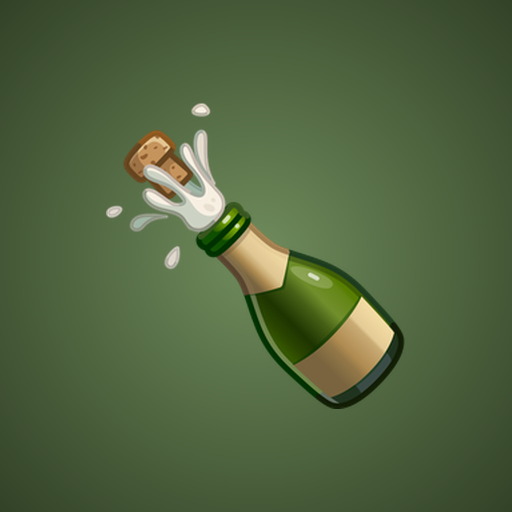
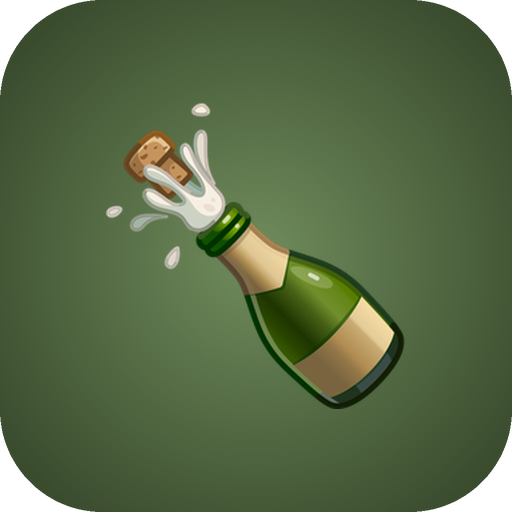
Packs: next pack requested while the current one plays, market lots warmed in the background, better prize odds; gift pictures get rounded corners and fall back to the bundled picture

diff --git a/templates/index.html b/templates/index.html
@@ -57,5 +57,5 @@
     <div class="sv3-brand">Crafter</div>
     <div class="sv3-status"><span>Загрузка</span><div class="splash-progress" role="progressbar" aria-label="Загрузка Crafter" aria-valuemin="0" aria-valuemax="100" aria-valuenow="0"><span class="splash-progress-fill"></span></div></div>
   </div>
-</div><script>(function(){var s=document.getElementById("splash"),v=1+Math.floor(Math.random()*5);s.dataset.v=v;s.querySelector(".sv3-pepe").src="/static/assets/splash/pepe-"+v+".webp";})();</script><div id="app"><header><span class="winter-currency-balance" role="status" aria-label="Новогодние шары: 0, пока недоступны" title="Новогодние шары — скоро"><img src="/static/assets/crafter-winter-ornament.png" alt="" width="32" height="32" draggable="false"><b>0</b></span><button type="button" class="games-profile-settings" onclick="crafterOpenSettings()" aria-label="Настройки">⚙</button><button class="brand" onclick="go('market')"><span class="crafter-mark">⌁</span><span>Crafter</span></button><div class="craft-header"><button class="info-btn" onclick="craftRules()" aria-label="Как работает крафт">i</button></div><button type="button" class="staking-rules-button" onclick="stakingRules()" aria-label="Правила стейкинга"><span class="staking-rules-dot" aria-hidden="true">i</span> Правила</button><button class="balance" onclick="go('wallet')"><img class="gram-icon" src="/static/assets/gram.svg" alt=""> <b>0 GRAM</b></button></header><main id="main"></main><nav id="nav"></nav></div><dialog id="sheet"><div class="sheet-head"><h2 id="sheet-title"></h2><button class="close" onclick="closeSheet()" aria-label="Закрыть"><svg viewBox="0 0 24 24" width="19" height="19" fill="none" stroke="currentColor" stroke-width="2" stroke-linecap="round" aria-hidden="true"><path d="M5 5 19 19M19 5 5 19"/></svg></button></div><div id="sheet-body"></div></dialog>{% include 'collection.html' %}<div id="toast" role="status"></div><script>setTimeout(function(){var s=document.getElementById("splash");if(s&&!s.classList.contains("finished")){s.classList.add("finished");var m=document.getElementById("main");if(!m.children.length)m.innerHTML="<div class=empty><h2>Не удалось загрузить приложение</h2><p>Проверьте соединение и попробуйте ещё раз.</p><button class=secondary onclick=location.reload()>Повторить</button></div>";}},18000);</script><script src="/static/app.js?v=deeplink1r2"></script><script src="/static/cube.js"></script><script src="/static/screens.js?v=res4"></script><script src="/static/catalog-ui.js?v=gram4b"></script><script src="/static/cart.js?v=reset2"></script><script src="/static/gift-animation.js?v=avoid-fragment-storm-20261105"></script><script src="/static/forge.js?v=craft-result-balls-20261108-v3"></script><script src="/static/wallet.js?v=deposit-simplified-20261107-v1"></script><script src="/static/auto-payout-admin.js?v=payout-wizard-v2-20261106"></script><script src="/static/runtime.js?v=market-scroll-optimized-20261105"></script><script src="/static/bot-admin.js?v=ph1"></script><script src="/static/collection.js?v=pack-page3r"></script><script src="/static/market-tools.js?v=withdraw-ui-v1"></script><script src="/static/gift-transfer.js?v=telegram-plane-nov04"></script><script src="/static/banner-carousel.js?v=market-features-v1"></script><script src="/static/market-banners.js?v=final-crafter-nov05-v10"></script><script src="/static/inventory-filters.js?v=isolated-model-20261104"></script><script src="/static/preferences.js?v=inv3"></script><script src="/static/staking.js?v=arena2"></script><script src="/static/crafter-lottie.js?v=event-arena-updates-20261105-v6"></script><script src="/static/leaderboard-designer.js?v=thrones-desktop-20261106-v2"></script><script src="/static/event-page-view.js?v=rank-studio-20261106-v1"></script><script src="/static/events.js?v=unified-season-v1-20261106"></script><script src="/static/resale.js?v=thermos4"></script><script src="/static/market-features.js?v=collection-preview-pack3"></script><script src="/static/offers.js?v=withdraw-ui-v2"></script><script src="/static/gift-share.js?v=withdraw-ui-v1"></script><script src="/static/arena-banner.js?v=timer-v3-20261106"></script><script src="/static/arena.js?v=glide-aim-20261111"></script><script src="/static/arena-private.js?v=room-switch-bottom-rounded-v1"></script><script src="/static/announcements.js?v=instant-close-20261108-v1"></script><script src="/static/new-year-page.js?v=nyp3"></script><script src="/static/new-year-decor.js?v=garland4"></script><script src="/static/web-login.js?v=launch1"></script><script src="/static/loading.js?v=live-progress-20261108-v1"></script><script src="/static/desktop-nav.js?v=desktop-sidebar-20261108-v1"></script><script src="/static/site-snow.js?v=snow2"></script><script src="/static/site-maintenance.js?v=launch-flip3"></script><script src="/static/advent.js?v=open2"></script><script src="/static/shop-items.js?v=bundle3"></script><script src="/static/ny-locks-admin.js?v=2"></script><script src="/static/packs.js?v=many1"></script><script src="/static/community-events.js?v=cm12"></script><script src="/static/new-year.js?v=ny-hub1"></script><script src="/static/new-year-rewards.js?v=preview-rewards-20261108-v2"></script><script src="/static/upgrade.js?v=gram5"></script><script src="/static/promo-profile.js?v=many1"></script><script src="/static/star-gifts.js?v=sg9"></script><script src="/static/ui-fixes.js?v=ui1"></script><script src="/static/admin-hide.js?v=2"></script><script src="/static/router.js?v=3"></script></body></html>
+</div><script>(function(){var s=document.getElementById("splash"),v=1+Math.floor(Math.random()*5);s.dataset.v=v;s.querySelector(".sv3-pepe").src="/static/assets/splash/pepe-"+v+".webp";})();</script><div id="app"><header><span class="winter-currency-balance" role="status" aria-label="Новогодние шары: 0, пока недоступны" title="Новогодние шары — скоро"><img src="/static/assets/crafter-winter-ornament.png" alt="" width="32" height="32" draggable="false"><b>0</b></span><button type="button" class="games-profile-settings" onclick="crafterOpenSettings()" aria-label="Настройки">⚙</button><button class="brand" onclick="go('market')"><span class="crafter-mark">⌁</span><span>Crafter</span></button><div class="craft-header"><button class="info-btn" onclick="craftRules()" aria-label="Как работает крафт">i</button></div><button type="button" class="staking-rules-button" onclick="stakingRules()" aria-label="Правила стейкинга"><span class="staking-rules-dot" aria-hidden="true">i</span> Правила</button><button class="balance" onclick="go('wallet')"><img class="gram-icon" src="/static/assets/gram.svg" alt=""> <b>0 GRAM</b></button></header><main id="main"></main><nav id="nav"></nav></div><dialog id="sheet"><div class="sheet-head"><h2 id="sheet-title"></h2><button class="close" onclick="closeSheet()" aria-label="Закрыть"><svg viewBox="0 0 24 24" width="19" height="19" fill="none" stroke="currentColor" stroke-width="2" stroke-linecap="round" aria-hidden="true"><path d="M5 5 19 19M19 5 5 19"/></svg></button></div><div id="sheet-body"></div></dialog>{% include 'collection.html' %}<div id="toast" role="status"></div><script>setTimeout(function(){var s=document.getElementById("splash");if(s&&!s.classList.contains("finished")){s.classList.add("finished");var m=document.getElementById("main");if(!m.children.length)m.innerHTML="<div class=empty><h2>Не удалось загрузить приложение</h2><p>Проверьте соединение и попробуйте ещё раз.</p><button class=secondary onclick=location.reload()>Повторить</button></div>";}},18000);</script><script src="/static/app.js?v=deeplink1r2"></script><script src="/static/cube.js"></script><script src="/static/screens.js?v=res4"></script><script src="/static/catalog-ui.js?v=gram4b"></script><script src="/static/cart.js?v=reset2"></script><script src="/static/gift-animation.js?v=avoid-fragment-storm-20261105"></script><script src="/static/forge.js?v=craft-result-balls-20261108-v3"></script><script src="/static/wallet.js?v=deposit-simplified-20261107-v1"></script><script src="/static/auto-payout-admin.js?v=payout-wizard-v2-20261106"></script><script src="/static/runtime.js?v=market-scroll-optimized-20261105"></script><script src="/static/bot-admin.js?v=ph1"></script><script src="/static/collection.js?v=pack-page3r"></script><script src="/static/market-tools.js?v=withdraw-ui-v1"></script><script src="/static/gift-transfer.js?v=telegram-plane-nov04"></script><script src="/static/banner-carousel.js?v=market-features-v1"></script><script src="/static/market-banners.js?v=final-crafter-nov05-v10"></script><script src="/static/inventory-filters.js?v=isolated-model-20261104"></script><script src="/static/preferences.js?v=inv3"></script><script src="/static/staking.js?v=arena2"></script><script src="/static/crafter-lottie.js?v=event-arena-updates-20261105-v6"></script><script src="/static/leaderboard-designer.js?v=thrones-desktop-20261106-v2"></script><script src="/static/event-page-view.js?v=rank-studio-20261106-v1"></script><script src="/static/events.js?v=unified-season-v1-20261106"></script><script src="/static/resale.js?v=thermos4"></script><script src="/static/market-features.js?v=collection-preview-pack3"></script><script src="/static/offers.js?v=withdraw-ui-v2"></script><script src="/static/gift-share.js?v=withdraw-ui-v1"></script><script src="/static/arena-banner.js?v=timer-v3-20261106"></script><script src="/static/arena.js?v=glide-aim-20261111"></script><script src="/static/arena-private.js?v=room-switch-bottom-rounded-v1"></script><script src="/static/announcements.js?v=instant-close-20261108-v1"></script><script src="/static/new-year-page.js?v=nyp3"></script><script src="/static/new-year-decor.js?v=garland4"></script><script src="/static/web-login.js?v=launch1"></script><script src="/static/loading.js?v=live-progress-20261108-v1"></script><script src="/static/desktop-nav.js?v=desktop-sidebar-20261108-v1"></script><script src="/static/site-snow.js?v=snow2"></script><script src="/static/site-maintenance.js?v=launch-flip3"></script><script src="/static/advent.js?v=open2"></script><script src="/static/shop-items.js?v=bundle3"></script><script src="/static/ny-locks-admin.js?v=2"></script><script src="/static/packs.js?v=many2"></script><script src="/static/community-events.js?v=cm12"></script><script src="/static/new-year.js?v=ny-hub1"></script><script src="/static/new-year-rewards.js?v=preview-rewards-20261108-v2"></script><script src="/static/upgrade.js?v=gram5"></script><script src="/static/promo-profile.js?v=many1"></script><script src="/static/star-gifts.js?v=sg9"></script><script src="/static/ui-fixes.js?v=ui1"></script><script src="/static/admin-hide.js?v=2"></script><script src="/static/router.js?v=3"></script></body></html>
 

diff --git a/static/packs.js b/static/packs.js
@@ -105,8 +105,10 @@ async function packInfo(upid) {
 async function openMany(ids, refresh) {
     if (ids.length < 2) { await open(ids[0], refresh); return; }
     const batch = {skip: false, results: []};
+    const ahead = {};                                             // the next pack is requested while this one plays: no waiting between packs
     for (let i = 0; i < ids.length && !batch.skip; i++) {
-        await open(ids[i], null, {index: i + 1, total: ids.length, batch});
+        if (i + 1 < ids.length) { ahead[i + 1] = api('packs/open', {user_pack_id: ids[i + 1]}); ahead[i + 1].catch(() => {}); }
+        await open(ids[i], null, {index: i + 1, total: ids.length, batch, pre: ahead[i]});
         if (batch.skip) {                                         // held for 5 seconds: everything that is left opens at once, in ONE request
             const left = ids.slice(i + 1);
             if (left.length) {
@@ -230,7 +232,7 @@ async function open(upid, refresh, meta) {
     if (playing) return;
     playing = true;
     let res;
-    try { res = await api('packs/open', {user_pack_id: upid}); }
+    try { res = await ((meta && meta.pre) || api('packs/open', {user_pack_id: upid})); }
     catch (err) { playing = false; toast(err.message); return; }
     const cards = res.cards || [];
     if (meta && meta.batch) meta.batch.results.push(res);

diff --git a/tests/test_packs.py b/tests/test_packs.py
@@ -295,8 +295,8 @@ def test_snowman_pack_economy_and_contents(client):
     mean_cards = sum(k * v for k, v in cards.items()) / sum(cards.values())
     ev_card = sum(float(D(p['value'] if p['kind'] == 'NFT' else p['amount'])) * p['weight'] for p in snow['prizes']) / total
     gift_share = sum(p['weight'] for p in gifts) / total
-    assert 0.08 <= ev_card * mean_cards <= 0.3                                             # an opening is worth well under half a GRAM
-    assert 0.15 <= 100 * mean_cards * gift_share <= 0.45                                   # about one gift per 400 openings
+    assert 0.08 <= ev_card * mean_cards <= 0.55                                            # an opening is worth well under half a GRAM
+    assert 0.8 <= 100 * mean_cards * gift_share <= 2.2                                     # about one gift per 70 openings
     grams = {p['amount'] for p in snow['prizes'] if p['kind'] == 'GRAM'}
     assert {'0.1', '0.2', '0.5', '1', '2', '3', '5', '10'} <= grams
     info = client.get('/api/packs/snowman/contents', headers=player).json
@@ -331,7 +331,7 @@ def test_winter_pack_is_rare_cheap_and_listed_lots_know_their_pack(client):
     total = sum(p['weight'] for p in winter['prizes'])
     cards = {int(k): v for k, v in winter['card_weights'].items()}
     mean = sum(k * v for k, v in cards.items()) / sum(cards.values())
-    assert 0.15 <= 100 * mean * sum(p['weight'] for p in gifts) / total <= 0.45             # about one gift per 400 openings
+    assert 0.8 <= 100 * mean * sum(p['weight'] for p in gifts) / total <= 2.2               # about one gift per 70 openings
     assert len([p for p in winter['prizes'] if p['kind'] == 'GRAM']) >= 10                  # lots of balance prizes
     assert 'pack_id' in __import__('inspect').getsource(__import__('resale'))
 
@@ -419,7 +419,7 @@ def test_existing_packs_are_given_backdrops_of_their_own_set(client):
 
 def test_christmas_carol_pack_and_one_stingy_table(client):
     admin, player = signed(42), signed(43)
-    STANDARD = {'0.1': 840.0, '0.2': 100.0, '0.3': 35.0, '0.5': 14.0, '0.75': 6.0, '1': 3.0, '1.5': 1.2, '2': .5, '3': .2, '5': .08, '10': .02, '20': .006}
+    STANDARD = {'0.1': 620.0, '0.2': 170.0, '0.3': 80.0, '0.5': 55.0, '0.75': 30.0, '1': 24.0, '1.5': 11.0, '2': 5.5, '3': 2.5, '5': 1.0, '10': .35, '20': .12}
     client.get('/api/me', headers=player)
     all_packs = {p['id']: p for p in client.get('/api/admin/new-year/packs', headers=admin).json['packs']}
     xmas = all_packs['christmas']
@@ -429,12 +429,12 @@ def test_christmas_carol_pack_and_one_stingy_table(client):
         ('snowglobe', 'Crimson Cabin'), ('hangingstar', 'Christmas'), ('snowmittens', 'Rudolph'), ('gingercookie', 'Cookie Claus'), ('jinglebells', 'Nutcracker'),
         ('eternalcandle', 'Red Melter'), ('xmasstocking', 'Caramel Fest'), ('winterwreath', 'Holly Leaves'), ('spicedwine', 'Gluhwein'), ('candycane', 'Cherry Charm')]
     for pack in all_packs.values():                                              # the same balance table and card counts everywhere
-        assert {int(k): v for k, v in pack['card_weights'].items()} == {1: 60, 2: 24, 3: 10, 4: 4, 5: 1.5, 6: .5}
+        assert {int(k): v for k, v in pack['card_weights'].items()} == {1: 52, 2: 26, 3: 13, 4: 6, 5: 2, 6: 1}
         table = {p['amount']: p['weight'] for p in pack['prizes'] if p['kind'] == 'GRAM' and p['amount'] in STANDARD}
         assert table == {k: float(v) for k, v in STANDARD.items() if k in table} and '0.1' in table
     for pack in all_packs.values():
         total = sum(p['weight'] for p in pack['prizes'])
-        assert sum(p['weight'] for p in pack['prizes'] if p['kind'] == 'NFT') / total < 0.0025          # a gift per card: at most 0.25%
+        assert sum(p['weight'] for p in pack['prizes'] if p['kind'] == 'NFT') / total < 0.01          # a gift per card: at most 1%
 
 
 def test_packs_are_a_collection_called_lucky_pack_with_a_floor(client):
@@ -468,7 +468,7 @@ def test_packs_hold_one_card_in_60_percent_of_openings_and_carry_an_accent(clien
     client.get('/api/me', headers=player)
     for pack in client.get('/api/admin/new-year/packs', headers=admin).json['packs']:
         weights = {int(k): v for k, v in pack['card_weights'].items()}
-        assert abs(weights[1] / sum(weights.values()) - .6) < 1e-9 and max(weights) == 6
+        assert abs(weights[1] / sum(weights.values()) - .52) < 1e-9 and max(weights) == 6
     client.post('/api/admin/users/43/packs', headers=admin, json={'pack_id': 'christmas'})
     pack, = [g for g in client.get('/api/inventory', headers=player).json['gifts'] if g.get('pack_item')]
     opened = client.post('/api/packs/open', headers=player, json={'user_pack_id': pack['user_pack_id']})
@@ -529,9 +529,9 @@ def test_silverfrost_pack(client):
                      ('santahat', 'Below Zero', '8.2'), ('snowglobe', 'Diamond', '8.37'), ('snowmittens', 'Pingu', '9.77'), ('jinglebells', 'Glacier', '11.33')] or         [g[:2] for g in gifts] == [('xmasstocking', 'Frozen Moss'), ('candycane', 'Blue Bliss'), ('partysparkler', 'Cyan Sizzle'), ('gingercookie', 'Frozen Dough'),
                                   ('winterwreath', 'Negative'), ('eternalcandle', 'Blue Steel'), ('santahat', 'Below Zero'), ('snowglobe', 'Diamond'),
                                   ('snowmittens', 'Pingu'), ('jinglebells', 'Glacier')]
-    assert {int(k): v for k, v in pack['card_weights'].items()} == {1: 60, 2: 24, 3: 10, 4: 4, 5: 1.5, 6: .5}
+    assert {int(k): v for k, v in pack['card_weights'].items()} == {1: 52, 2: 26, 3: 13, 4: 6, 5: 2, 6: 1}
     total = sum(p['weight'] for p in pack['prizes'])
-    assert abs(sum(p['weight'] for p in pack['prizes'] if p['kind'] == 'NFT') / total - 0.0017) < 0.0001
+    assert abs(sum(p['weight'] for p in pack['prizes'] if p['kind'] == 'NFT') / total - 0.008) < 0.0005
     assert packs.PACK_ACCENTS['silverfrost']
 
 

diff --git a/packs.py b/packs.py
@@ -4,6 +4,7 @@ Packs are configured by administrators (card-count chances and prize chances), c
 community rewards, promo-code rewards or sold for New Year balls, and are opened with one request.
 Gift prizes are catalog items: they can be sold back instantly for their value but never withdrawn.
 """
+import threading
 import gzip
 import json
 import re
@@ -530,6 +531,32 @@ def install_packs(app, db, auth, record, audit):
                 db().execute("UPDATE packs SET card_weights=? WHERE id=?", (json.dumps(CARD_WEIGHTS), pack_id))
             db().execute("INSERT INTO settings(key,payload) VALUES('packs_tuned_v6','1') ON CONFLICT(key) DO NOTHING")
 
+    BETTER_GRAM = (('0.1', 620), ('0.2', 170), ('0.3', 80), ('0.5', 55), ('0.75', 30), ('1', 24), ('1.5', 11), ('2', 5.5), ('3', 2.5), ('5', 1), ('10', .35), ('20', .12))
+    BETTER_CARDS = {'1': 52, '2': 26, '3': 13, '4': 6, '5': 2, '6': 1}
+    BETTER_NFT_SHARE = 0.008
+
+    def tune_packs_better():
+        """Once: a little better prizes. Fewer 0.1 GRAM cards, more mid-size balance prizes, more cards per pack, gifts about five times as likely."""
+        if db().execute("SELECT 1 FROM settings WHERE key='packs_tuned_v7'").fetchone():
+            return
+        table = dict(BETTER_GRAM)
+        with db():
+            for pack in db().execute("SELECT id FROM packs").fetchall():
+                db().execute("UPDATE packs SET card_weights=? WHERE id=?", (json.dumps(BETTER_CARDS), pack['id']))
+                for r in db().execute("SELECT * FROM pack_prizes WHERE pack_id=? AND kind='GRAM'", (pack['id'],)).fetchall():
+                    key = str(r['amount'])
+                    if key in table:
+                        db().execute("UPDATE pack_prizes SET weight=? WHERE id=?", (table[key], r['id']))
+                rows = db().execute("SELECT * FROM pack_prizes WHERE pack_id=?", (pack['id'],)).fetchall()
+                gram = sum(float(r['weight']) for r in rows if r['kind'] == 'GRAM')
+                nft = sum(float(r['weight']) for r in rows if r['kind'] == 'NFT')
+                if gram > 0 and nft > 0:
+                    wanted = BETTER_NFT_SHARE / (1 - BETTER_NFT_SHARE) * gram
+                    for r in rows:
+                        if r['kind'] == 'NFT':
+                            db().execute("UPDATE pack_prizes SET weight=? WHERE id=?", (round(float(r['weight']) * wanted / nft, 6), r['id']))
+            db().execute("INSERT INTO settings(key,payload) VALUES('packs_tuned_v7','1') ON CONFLICT(key) DO NOTHING")
+
     def drop_christmas_bear():
         """Once: the 169-value Toy Bear leaves Christmas Carol; the other gifts share its chance."""
         if db().execute("SELECT 1 FROM settings WHERE key='packs_christmas_v2'").fetchone():
@@ -579,6 +606,7 @@ def install_packs(app, db, auth, record, audit):
         drop_christmas_bear()
         add_cherry_charm()
         seed_silverfrost_pack()
+        tune_packs_better()
 
     def grant(uid, pack_id, source, request_id=None):
         """Give one unopened pack to a player. Must run inside a transaction."""
@@ -634,6 +662,7 @@ def install_packs(app, db, auth, record, audit):
             "JOIN inventory i ON i.nft_id='packitem-'||u.id "
             "WHERE i.user_id=? AND u.opened_at IS NULL ORDER BY u.created", (uid,)).fetchall()
         shop = db().execute("SELECT * FROM packs WHERE for_sale=1 AND enabled=1 ORDER BY created").fetchall()
+        warm([r['pid'] for r in mine])             # the owner is about to open them: load the market lots now
         return {'mine': [{'id': r['id'], 'source': r['source'], 'pack': {'id': r['pid'], 'title': r['title'], 'image': r['image_url']}} for r in mine],
                 'shop': [{**short(p), 'price_balls': int(p['price_balls'])} for p in shop]}
 
@@ -685,6 +714,7 @@ def install_packs(app, db, auth, record, audit):
                 db().execute("UPDATE new_year_wallets SET balls=? WHERE user_id=?", (balls - price, uid))
             upid = grant(uid, pid, 'shop', 'buy:' + rid)
             record('pack_buy', {'pack': pid, 'price_balls': price}, uid=uid)
+        warm([pid])
         return {'ok': True, 'user_pack_id': upid, 'balance': {'balls': balls - price}}
 
     # ---- real market access for gift prizes ----
@@ -743,7 +773,7 @@ def install_packs(app, db, auth, record, audit):
             if p['kind'] != 'NFT' or float(p['weight']) <= 0:
                 continue
             hit = avail_cache.get(p['id'])
-            if not hit or now - hit[0] > (120 if hit[1] else 20):
+            if not hit or now - hit[0] > (300 if hit[1] else 20):
                 try:
                     hit = (now, market_lots(p))
                 except Exception:
@@ -751,6 +781,29 @@ def install_packs(app, db, auth, record, audit):
                 avail_cache[p['id']] = hit
             out[p['id']] = list(hit[1])
         return out
+
+    warming = set()
+
+    def warm(pack_ids):
+        """Loads the market lots of these packs in the background, so the next pack opens without waiting for the market."""
+        if not work_mode():
+            return
+        todo = [x for x in dict.fromkeys(pack_ids) if x not in warming]
+        if not todo:
+            return
+        warming.update(todo)
+
+        def job():
+            try:
+                with app.app_context():
+                    for pid in todo:
+                        try:
+                            availability(prizes_of(pid))
+                        except Exception:
+                            pass
+            finally:
+                warming.difference_update(todo)
+        threading.Thread(target=job, daemon=True).start()
 
     def test_models(cid):
         path = ROOT / 'data/catalog_seed.json.gz'

diff --git a/star_gifts.py b/star_gifts.py
@@ -9,6 +9,8 @@
 * Automatic withdrawal is OFF until an administrator enables it. A send whose outcome is unknown is never
   repeated: the withdrawal goes to "review" for an operator.
 """
+import os
+from pathlib import Path
 import asyncio
 import json
 import threading
@@ -85,7 +87,7 @@ def install_star_gifts(app, db, auth, record, audit):
         for item in BY_KEY.values():
             row = known.get(item['key'])
             stars = int(row['stars']) if row else item['stars']
-            image = ('/media/stargift/' + item['key'] + '.png?v=' + str(row['updated'])) if row and row['has_png'] else '/static/assets/stargifts/' + item['key'] + '.png'
+            image = ('/media/stargift/' + item['key'] + '.png?v=' + str(row['updated']) + 'b') if row and row['has_png'] else '/static/assets/stargifts/' + item['key'] + '.png'
             out.append({**item, 'stars': stars, 'price': format(gram_value(stars), 'f'), 'image': image,
                         'telegram_gift_id': str(row['tg_id']) if row and row['tg_id'] else None, 'synced': bool(row)})
         return out
@@ -104,7 +106,11 @@ def install_star_gifts(app, db, auth, record, audit):
             try:
                 ART_CACHE[token] = stargift_art.compose(bytes(row['png']), key)       # the gift on a background of its own colour
             except Exception:
-                ART_CACHE[token] = bytes(row['png'])
+                # the downloaded picture is broken: show the bundled one instead of an empty frame
+                bundled = Path(app.root_path) / 'static' / 'assets' / 'stargifts' / (os.path.basename(key) + '.png')
+                if not bundled.is_file():
+                    abort(404)
+                ART_CACHE[token] = bundled.read_bytes()
         response = app.response_class(ART_CACHE[token], mimetype='image/png')
         response.headers['Cache-Control'] = 'public, max-age=86400, immutable'
         return response

diff --git a/stargift_art.py b/stargift_art.py
@@ -1,7 +1,7 @@
 """Ordinary Telegram gifts: the picture is the gift on its own coloured background (taken from the gift's own colour), not too big in the frame."""
 import io
 import colorsys
-from PIL import Image
+from PIL import Image, ImageDraw
 
 SIZE = 512
 SHARE = 0.60            # the gift takes this share of the frame: it is moved away from the edges
@@ -39,6 +39,9 @@ def compose(raw: bytes, key: str = '') -> bytes:
     scale = SIZE * SHARE / max(gift.size)
     gift = gift.resize((max(1, round(gift.width * scale)), max(1, round(gift.height * scale))), Image.LANCZOS)
     background.alpha_composite(gift, ((SIZE - gift.width) // 2, (SIZE - gift.height) // 2))
+    corners = Image.new('L', (SIZE * 2, SIZE * 2), 0)                 # rounded corners, drawn large and shrunk for a smooth edge
+    ImageDraw.Draw(corners).rounded_rectangle((0, 0, SIZE * 2 - 1, SIZE * 2 - 1), radius=int(SIZE * 2 * 0.2), fill=255)
+    background.putalpha(corners.resize((SIZE, SIZE), Image.LANCZOS))
     out = io.BytesIO()
-    background.convert('RGB').save(out, 'PNG', optimize=True)
+    background.save(out, 'PNG', optimize=True)
     return out.getvalue()
